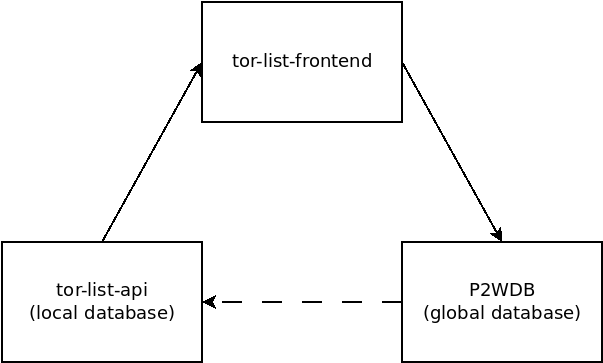
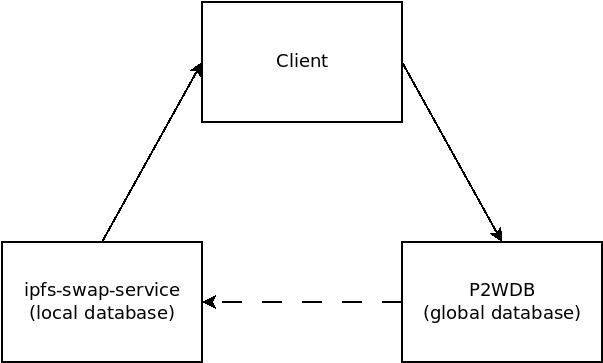
Updating dev docs

Changed region(s): [[0.3881, 0.1212, 0.6269, 0.1818], [0.0299, 0.7879, 0.2985, 0.8182]]

diff --git a/dev-docs/README.md b/dev-docs/README.md
@@ -1,44 +1,42 @@
 # Developer Documentation
 
-This is living documentation that will be updated, edited, and changed over time, using the same version control as the rest of the code. The purpose of this documentation is to capture and explain how this tor-list-api and [tor-list-frontend](https://github.com/Permissionless-Software-Foundation/tor-list-frontend) [SPA](https://en.wikipedia.org/wiki/Single-page_application) interact with the [P2WDB](https://github.com/Permissionless-Software-Foundation/ipfs-p2wdb-service) to create a permissionless, censorship-resistant database for storing and sharing deep-web websites at [TorList.cash](https://torlist.cash).
+This is living documentation that will be updated, edited, and changed over time, using the same version control as the rest of the code. The purpose of this documentation is to capture and explain how this ipfs-swap-service interacts with the [P2WDB](https://github.com/Permissionless-Software-Foundation/ipfs-p2wdb-service), to create a permissionless, censorship-resistant database for storing trading orders. A web client will be built in the future that will interact with the REST API of this app.
 
 - [Specification](./specification.md)
 
 # Overview
 
-There are three major pieces of software behind the tor-list concept. They work together to form a censorship-resistant application for curating information about websites.
+There are three major pieces of software behind the ipfs-swap-service concept. They work together to form a censorship-resistant application for exchanging transaction data for building trades.
 
-![tor-list major subcomponents](./diagrams/software-interaction.png)
+![ipfs-swap-service major subcomponents](./diagrams/software-interaction.png)
 
-- [tor-list-frontend](https://github.com/Permissionless-Software-Foundation/tor-list-frontend) is the web based user interface (UI) which can be seen at [TorList.cash](https://torlist.cash/).
-- [tor-list-api](https://github.com/Permissionless-Software-Foundation/tor-list-api) is the back end REST API that maintains a local database of information that tor-list-frontend reads from.
+- _Client_ could be a web browser, or a command-line client like [psf-bch-wallet](https://github.com/Permissionless-Software-Foundation/psf-bch-wallet) or [psf-avax-wallet](https://github.com/Permissionless-Software-Foundation/psf-avax-wallet).
+- [ipfs-swap-service](https://github.com/christroutner/ipfs-swap-service) is the back end REST API that maintains a local database of information that the client reads from.
 - [P2WDB](https://github.com/Permissionless-Software-Foundation/ipfs-p2wdb-service) is the pay-to-write global database with a REST API for interfacing with the other two pieces of software.
 
 The arrows in the image represent the information flow between the three pieces of software:
 
-- tor-list-frontend displays information about websites. It _reads_ this information from tor-list-api.
-- tor-list-frontend is also a web wallet. It can generate the needed transactions to _write_ information to the P2WDB.
-- tor-list-api imports data from the global database into its local database using a [webhook](https://en.wikipedia.org/wiki/Webhook).
+- The _Client_ displays information about orders. It _reads_ this information from ipfs-swap-service.
+- The _Client_ is also a wallet. It can generate the needed transactions to _write_ information to the P2WDB.
+- `ipfs-swap-service` imports data from the global P2WDB database into its local database, using a [webhook](https://en.wikipedia.org/wiki/Webhook).
 
-This architecture keeps the global database highly censorship resistant, while allowing local installations to maintain tight control over the user experience. The goal is to have many curation sites similar to [TorList.cash](https://torlist.cash). Each site would cater to their niche by customizing the display of the data, but they would all tap into the same global database of information.
-
-**Example:** [TorList.cash](https://torlist.cash) will prevent the display of sites that are associated with drugs, guns, pornography, or gambling. That data can still exist in the global database, it just won't be displayed on Torlist.cash. Other websites, using a fork of the same software, can display those categories. They could also impose stricter rules to filter the data even more aggressively. (Imagine a site that focuses just on cryptocurrency trading, and filters out all sites that are not strictly about cryptocurrency trading.) Each site competes with the others for users, but work together to maintain the global database.
+This architecture keeps the global database highly censorship resistant, while allowing local installations to maintain tight control over the user experience. The goal is to have many redundant copies of `ipfs-swap-service` on the network, and to empower individual traders to run their own, private copy.
 
 # Back End
 
-This section provides additional information on the tor-list-api and P2WDB back end software.
+This section provides additional information on `ipfs-swap-service` and P2WDB back end software.
 
 ## P2WDB
 
-The heart of the censorship resistance is the pay-to-write database ([P2WDB](https://github.com/Permissionless-Software-Foundation/ipfs-p2wdb-service)). This is an [OrbitDB](https://orbitdb.org/) peer-to-peer (p2p) database. The write-access rules have been customized to allow anyone to write to the database, so long they prove that a sufficient quantity [PSF tokens](https://psfoundation.cash) have been burned, to pay for the write.
+The heart of the censorship resistance is the pay-to-write database ([P2WDB](https://github.com/Permissionless-Software-Foundation/ipfs-p2wdb-service)). This is an [OrbitDB](https://orbitdb.org/) peer-to-peer (p2p) database. The write-access rules have been customized to allow anyone to write to the database, so long as they prove that a sufficient quantity of [PSF tokens](https://psfoundation.cash) have been burned, to pay for the write.
 
 Because OrbitDB is a p2p database, no one party holds the 'official' copy of the database. Instead, like a blockchain, the database is replicated among several peers, and they coordinate updates to the database using consensus rules. Peers are free to leave or enter the network. Each peer independently verifies the database entries have sufficient proof-of-burn.
 
-## tor-list-api
+## `ipfs-swap-service`
 
-The [tor-list-api](https://github.com/Permissionless-Software-Foundation/tor-list-api) replicates a copy of the global P2WDB, but has the ability to apply localized filters to the data before passing it on to tor-list-frontend to be displayed. The most important filter is the `blacklist` model, which allows administrators of the site to mark database entries as 'blacklisted', to prevent them from being displayed.
+The [ipfs-swap-service](https://github.com/christroutner/ipfs-swap-service) replicates a copy of the global P2WDB, but has the ability to apply localized filters to the data before passing it on to the _Client_, to be displayed.
 
-tor-list-api is based on this [koa-api-boilerplate](https://github.com/christroutner/koa-api-boilerplate), which is a production ready REST API that includes many features for building a web app. This includes user management and authentication, REST API scaffolding, API documentation, Docker container generation, and extensive test coverage. It's intended to be customized for the needs of the website administrator.
+`ipfs-swap-service` is based on this [ipfs-service-provider boilerplate](https://github.com/Permissionless-Software-Foundation/ipfs-service-provider). It's a production-ready template for a web server, providing interfaced via REST API over HTTP, as well as JSON RPC over IPFS. It includes many features for building a web app. This includes user management and authentication, REST API scaffolding, API documentation, Docker container generation, and extensive test coverage. It's intended to be customized for the needs of the website administrator.
 
 - [Specification](./specification.md)
 
